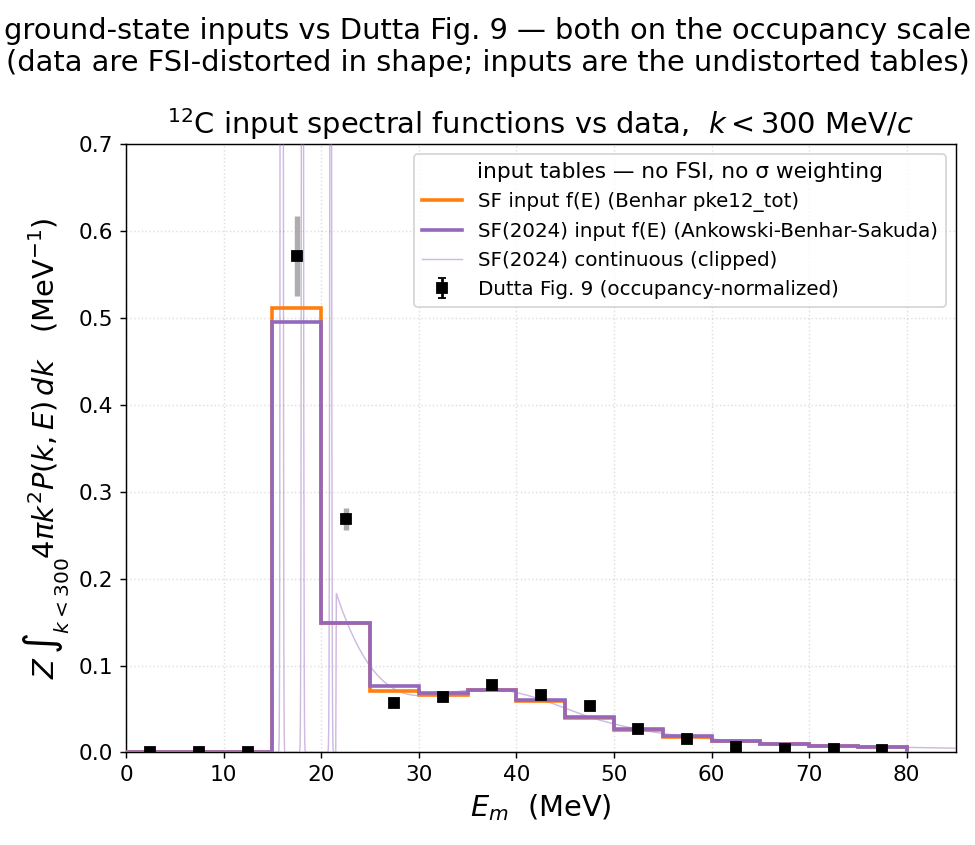
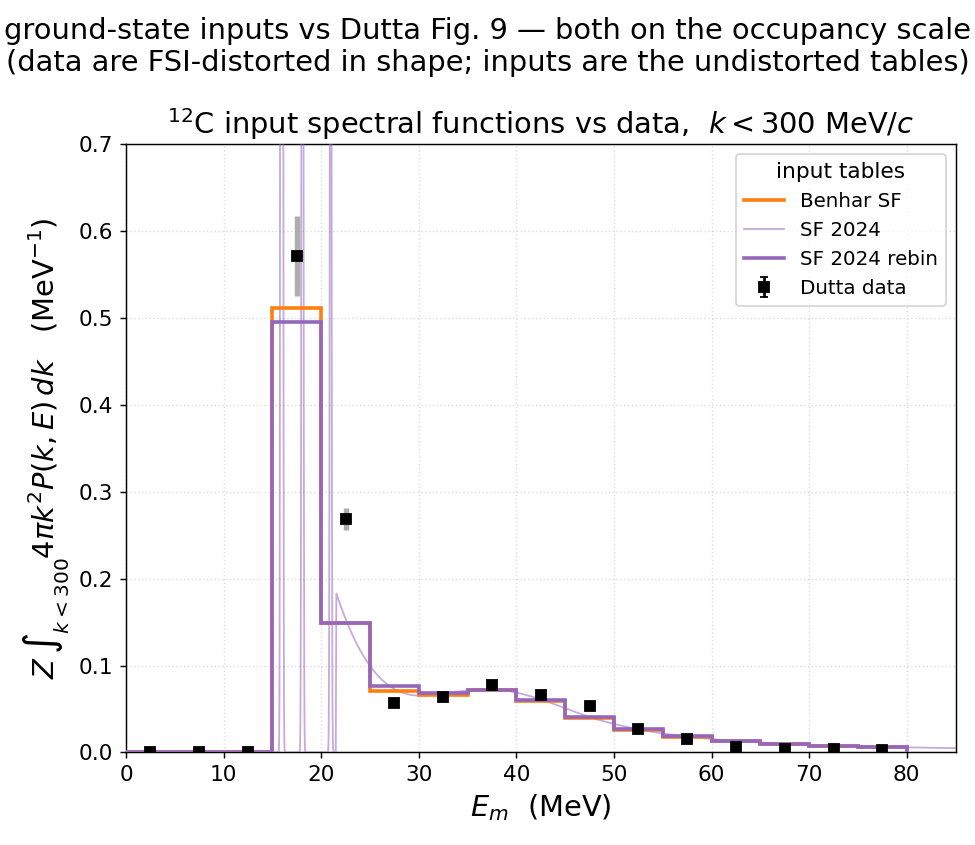
results: relabel the input-tables overlay legend
sf_input_em_fig9: legend title "input tables"; entries Benhar SF,
SF 2024 (continuous), SF 2024 rebin, Dutta data. Presentation only.

diff --git a/results/prd-analyzer/plot_sf_input_em_fig9.py b/results/prd-analyzer/plot_sf_input_em_fig9.py
@@ -80,17 +80,17 @@ fig, (ax,) = new_panels(ncols=1, sharey=False)
 fig.set_size_inches(7.5, 6.5)
 
 ax.stairs(y_o, EDGES, color=S.color("SF"), linewidth=2.0, zorder=4,
-          label="SF input f(E) (Benhar pke12_tot)")
-ax.stairs(y_n, EDGES, color=S.color("UnifiedQEL2024"), linewidth=2.0, zorder=5,
-          label="SF(2024) input f(E) (Ankowski-Benhar-Sakuda)")
+          label="Benhar SF")
 fine = E_n <= 85.0
-ax.plot(E_n[fine], f_n[fine], color=S.color("UnifiedQEL2024"), lw=0.8,
-        alpha=0.45, zorder=3, label="SF(2024) continuous (clipped)")
+ax.plot(E_n[fine], f_n[fine], color=S.color("UnifiedQEL2024"), lw=1.0,
+        alpha=0.55, zorder=3, label="SF 2024")
+ax.stairs(y_n, EDGES, color=S.color("UnifiedQEL2024"), linewidth=2.0, zorder=5,
+          label="SF 2024 rebin")
 
 ax.errorbar(dem, dsf, yerr=dtot, fmt="none", ecolor="0.6", elinewidth=3,
             alpha=0.8, zorder=8)
 ax.errorbar(dem, dsf, yerr=dstat, fmt="s", ms=5, color="black", capsize=2,
-            zorder=9, label="Dutta Fig. 9 (occupancy-normalized)")
+            zorder=9, label="Dutta data")
 
 style_axis(ax, title=r"$^{12}$C input spectral functions vs data,  $k<300$ MeV/$c$",
            xlabel=r"$E_m$  (MeV)", logx=False, logy=False, ymin=None)
@@ -98,7 +98,7 @@ ax.set_ylabel(r"$Z\,\int_{k<300} 4\pi k^2 P(k,E)\,dk$   (MeV$^{-1}$)",
               fontsize=FS_LABEL)
 ax.set_xlim(0, 85)
 ax.set_ylim(0, 0.7)
-ax.legend(fontsize=FS_LEGEND - 1, title="input tables — no FSI, no σ weighting",
+ax.legend(fontsize=FS_LEGEND - 1, title="input tables",
           title_fontsize=FS_LEGEND_TITLE - 1)
 fig.suptitle("ground-state inputs vs Dutta Fig. 9 — both on the occupancy scale\n"
              "(data are FSI-distorted in shape; inputs are the undistorted tables)",
